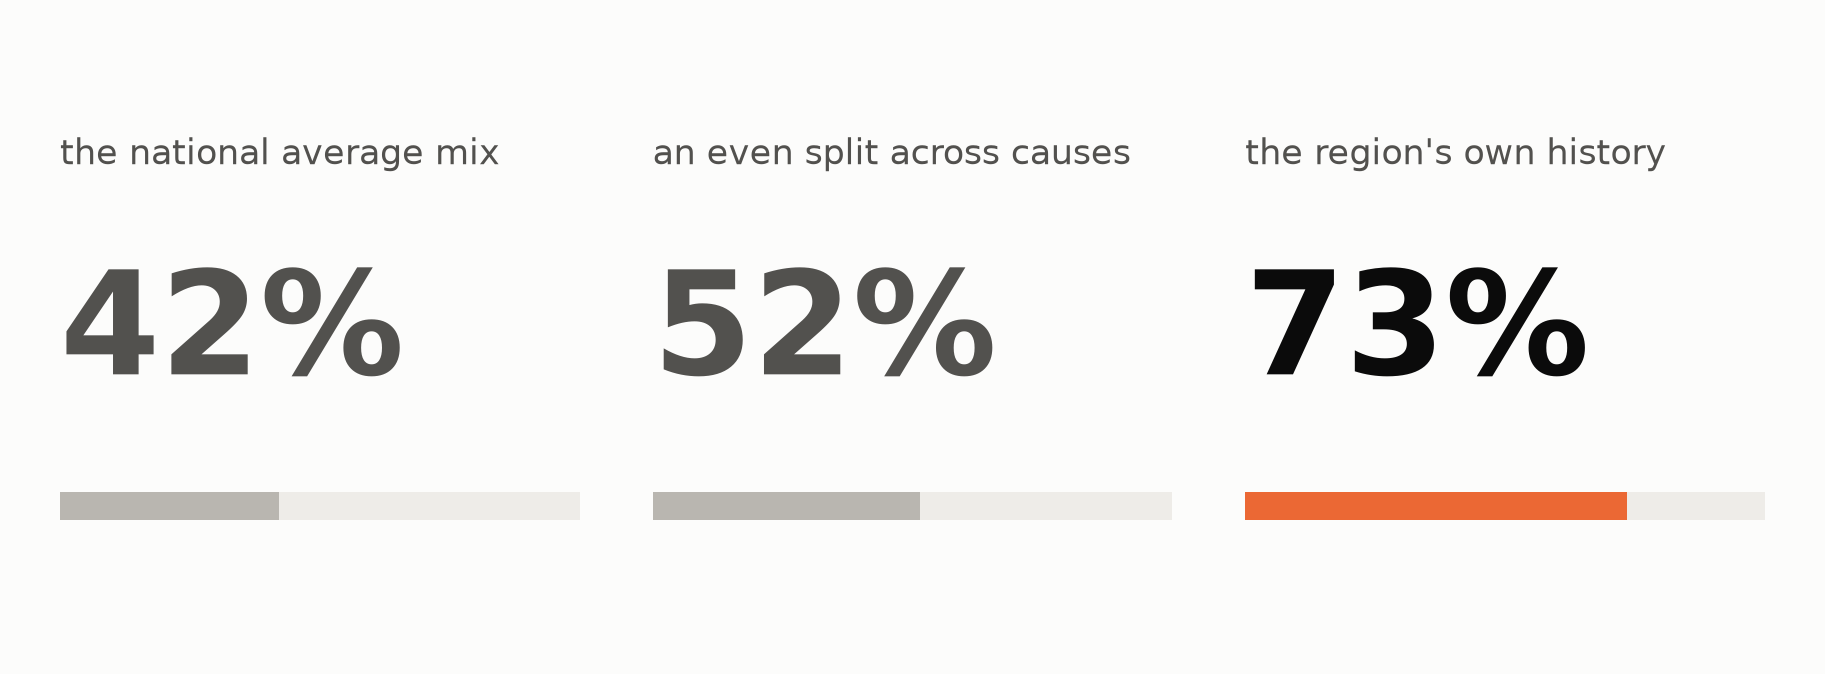
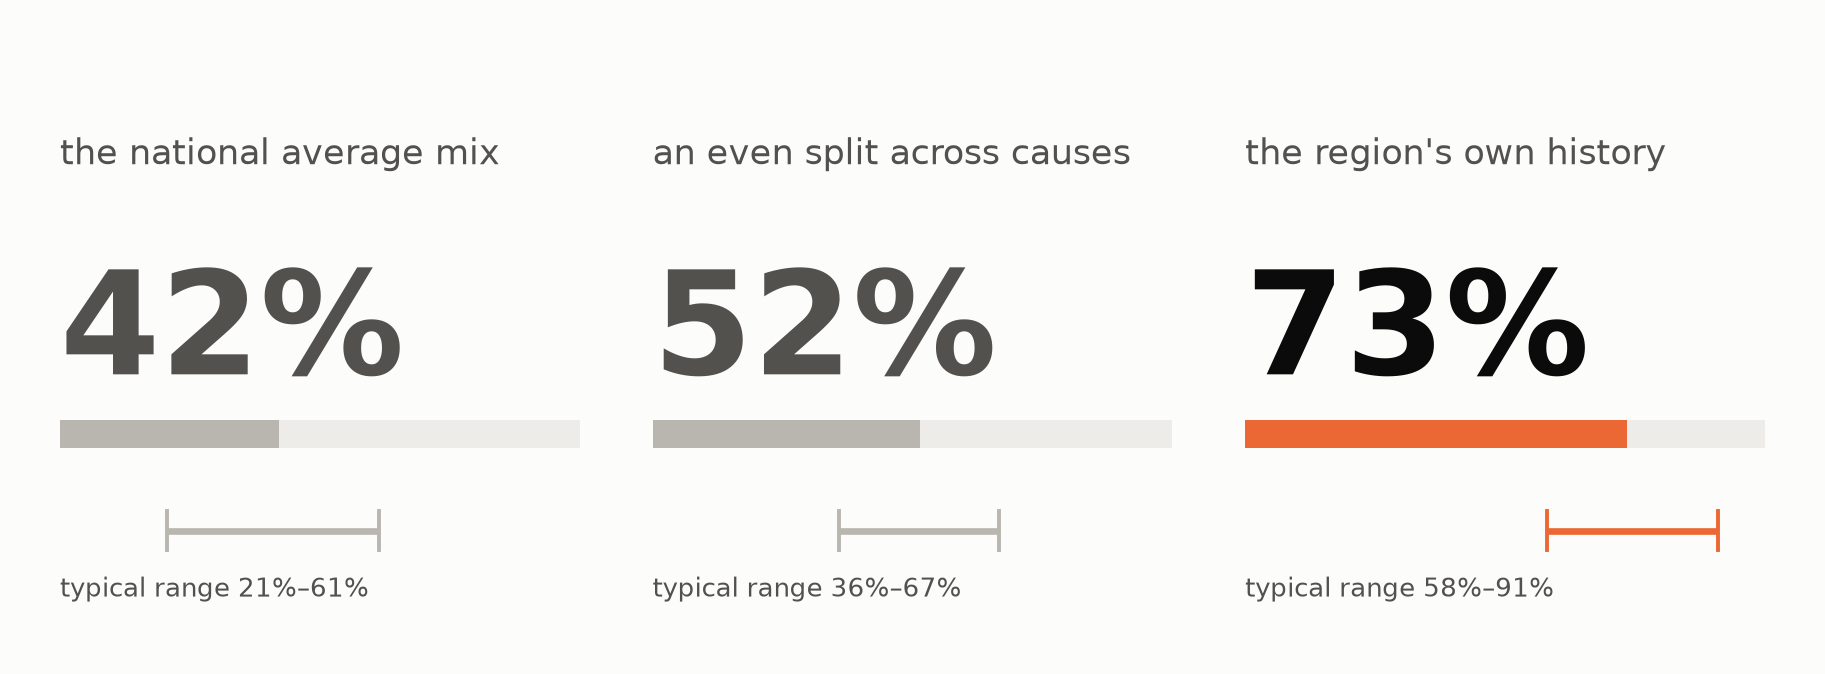
Show the spread on beat 3's tiles, and add a W7 visuals notebook
The tiles reported three bare means over 3,949 held-out region-seasons
while a planner receives exactly one of them. Each tile now carries the
middle half of its own per-cell distribution: history 58-91%, national
average 21-61%, even split 36-67%.

The spread is acre-weighted to match the headline. Unweighted percentiles
were tried first and put a 42% headline over a 50-79% range on the national
tile -- correct on both counts, unreadable as a pair, because that predictor
fails hardest on the big-burn cells the acre weighting is dominated by. Adds
_weighted_quantile for this.

The argument is sharper for the honesty: history and the national average
barely overlap, and the national tile's first quartile reaching 21% is beat
2's bimodality returning as forecast error.

notebook/16_w7_visuals.ipynb holds figures revised or added for W7 so
15_w6_visuals.ipynb stays a record of what week 6 presented. Code cells
dry-run clean; the notebook has not been executed.

Beat 3 to 0:55; deck totals 10:40.

diff --git a/src/w6_visuals.py b/src/w6_visuals.py
@@ -2106,7 +2106,8 @@ def plot_volatility_map(panel, out_path: Path, *, cfg=None,
 
 
 def _draw_score_tiles(labels, values, out_path: Path, *,
-                      figsize: tuple[float, float] = (11.0, 3.6)) -> None:
+                      figsize: tuple[float, float] = (11.0, 3.6),
+                      ranges=None) -> None:
     """Render one row of stat tiles. Shared by the Tier-1 and Human beats.
 
     One implementation, two slides: the beats are the same question one level
@@ -2119,6 +2120,15 @@ def _draw_score_tiles(labels, values, out_path: Path, *,
     comparison lives. The winner takes the ember accent; the rest sit in a
     recessive neutral, because the point is which one wins.
 
+    `ranges`, when given, is one `(low, high)` per tile in the same order as
+    `values`, drawn as a span beneath the bar with the headline mean marked on
+    it. **It is a spread across region-seasons, not a confidence interval** --
+    the tile's number is an average over thousands of cells and a planner
+    receives one of them, so the span answers "how much does this vary from
+    place to place", which is a different question from "how sure are we of the
+    average". The label drawn says "typical range" for that reason: no
+    inferential claim is being made.
+
     No title and no caption is drawn: the slide's headline supplies the framing,
     and the numbers a caption would need are returned by the caller.
     """
@@ -2127,6 +2137,8 @@ def _draw_score_tiles(labels, values, out_path: Path, *,
     order = np.argsort(np.asarray(values, dtype=float))
     labels = list(np.asarray(labels, dtype=object)[order])
     values = list(np.asarray(values, dtype=float)[order])
+    if ranges is not None:
+        ranges = [tuple(r) for r in np.asarray(ranges, dtype=float)[order]]
     best = len(values) - 1
 
     fig, axes = plt.subplots(1, len(values), figsize=figsize, facecolor=SURFACE,
@@ -2149,14 +2161,50 @@ def _draw_score_tiles(labels, values, out_path: Path, *,
                 ha="left", va="center", fontweight="bold")
 
         # A shared 0-100% track, so the bars are comparable across tiles.
-        ax.add_patch(plt.Rectangle((0, 0.17), 1.0, 0.05, facecolor="#eeece8",
+        bar_y = 0.17 if ranges is None else 0.30
+        ax.add_patch(plt.Rectangle((0, bar_y), 1.0, 0.05, facecolor="#eeece8",
                                    edgecolor="none"))
-        ax.add_patch(plt.Rectangle((0, 0.17), value, 0.05, facecolor=accent,
+        ax.add_patch(plt.Rectangle((0, bar_y), value, 0.05, facecolor=accent,
                                    edgecolor="none"))
+
+        if ranges is not None:
+            low, high = ranges[i]
+            span_y = 0.15
+            # The span sits on the SAME 0-100% track as the bar above it, so the
+            # eye reads width against the bar without a second scale to learn.
+            ax.plot([low, high], [span_y, span_y], color=accent, lw=2.4,
+                    solid_capstyle="butt", zorder=2)
+            for x in (low, high):
+                ax.plot([x, x], [span_y - 0.035, span_y + 0.035], color=accent,
+                        lw=1.4, zorder=3)
+            ax.text(0, 0.02, f"typical range {low:.0%}–{high:.0%}", fontsize=9.5,
+                    color=TEXT_SECONDARY, ha="left", va="bottom")
 
     fig.savefig(out_path, dpi=200, facecolor=SURFACE, bbox_inches="tight",
                 pad_inches=0.3)
     plt.close(fig)
+
+
+def _weighted_quantile(values, weights, q: float) -> float:
+    """Quantile of `values` under `weights`, by the cumulative-weight definition.
+
+    numpy has no weighted percentile. Sort by value, walk the cumulative weight,
+    and read off where it crosses `q` of the total -- with the cumulative taken
+    at interval midpoints so the result is symmetric between q and 1-q rather
+    than biased half a step toward the low end.
+
+    Exists so the tiles' spread carries the SAME acre weighting as the headline
+    mean above it. Mixing an acre-weighted mean with unweighted percentiles put a
+    42% headline over a 50-79% range on the national tile, which reads as a
+    mistake even though both numbers were correct.
+    """
+    values = np.asarray(values, dtype=float)
+    weights = np.asarray(weights, dtype=float)
+    order = np.argsort(values)
+    v, wt = values[order], weights[order]
+    cum = np.cumsum(wt) - 0.5 * wt
+    cum /= wt.sum()
+    return float(np.interp(q, cum, v))
 
 
 def tier1_baseline_scores(panel, *, k: int = 7, cfg=None) -> pd.DataFrame:
@@ -2189,14 +2237,36 @@ def tier1_baseline_scores(panel, *, k: int = 7, cfg=None) -> pd.DataFrame:
     national = national / national.sum(axis=1, keepdims=True)
     naive = np.full_like(act, 1 / 3)
 
+    def per_cell(pred):
+        """Per-cell TVD, kept rather than reduced -- the spread is the point."""
+        return 0.5 * np.abs(pred - act).sum(axis=1)
+
     def score(pred):
-        return float(np.average(0.5 * np.abs(pred - act).sum(axis=1), weights=w))
+        return float(np.average(per_cell(pred), weights=w))
 
     rows = [("the region's own history", "history", score(hist)),
             ("the national average mix", "national", score(national)),
             ("an even split across causes", "naive", score(naive))]
     out = pd.DataFrame(rows, columns=["label", "key", "tvd"]).set_index("key")
     out["correct"] = 1 - out["tvd"]
+
+    # Middle half of the per-cell distribution, on the same 1 - TVD scale as the
+    # headline. The tiles report a mean over thousands of held-out region-seasons
+    # and a planner receives exactly one of them, so the spread is what says how
+    # much a single number can be relied on.
+    #
+    # ACRE-WEIGHTED quantiles, matching the headline's weighting. Unweighted ones
+    # were tried first and produced a figure that reads as an error: the national
+    # tile came out at a 42% headline against a 50-79% range, because that
+    # predictor fails hardest on the big-burn cells the acre weighting is
+    # dominated by and does adequately on the many small ones. Both numbers were
+    # right and the pair was unreadable. One denominator throughout is the same
+    # discipline the spoken script applies to every share it quotes.
+    for key, pred in (("history", hist), ("national", national), ("naive", naive)):
+        acc = 1 - per_cell(pred)
+        for q in (25, 50, 75):
+            out.loc[key, f"p{q}"] = _weighted_quantile(acc, w, q / 100)
+
     out.attrs["n_cells"] = int(len(d))
     out.attrs["test_start"] = int(cfg.test_start)
     return out
@@ -2206,9 +2276,17 @@ def plot_tier1_tiles(panel, out_path: Path, *, k: int = 7, cfg=None,
                      figsize: tuple[float, float] = (11.0, 3.6)) -> dict:
     """Beat 3 — three tiles: does a region's own history forecast its cause mix?
 
-    Not a chart. Three numbers, compared once, with no distribution to show and
-    no time axis -- the form is a stat tile, and forcing it into a bar chart adds
-    an axis the reader does not need.
+    Not a chart. Three numbers compared once, with no time axis -- the form is a
+    stat tile, and forcing it into a bar chart adds an axis the reader does not
+    need.
+
+    **Each tile carries the middle half of its own per-cell distribution**
+    (p25-p75 of `1 - TVD`), added W7. The headline is an acre-weighted mean over
+    thousands of held-out region-seasons and a planner receives exactly one of
+    them, so a bare mean overstates what a single forecast is worth. The span is
+    variation across region-seasons, **not** a confidence interval on the mean --
+    the drawn label says "typical range" to keep that distinction in the figure
+    rather than only in the notes.
 
     **The value shown is `1 - TVD`, not TVD.** TVD is a distance, so lower is
     better, and a tile whose biggest number is the worst result reads backwards
@@ -2226,7 +2304,8 @@ def plot_tier1_tiles(panel, out_path: Path, *, k: int = 7, cfg=None,
     """
     scores = tier1_baseline_scores(panel, k=k, cfg=cfg)
     _draw_score_tiles(scores["label"], scores["correct"], out_path,
-                      figsize=figsize)
+                      figsize=figsize,
+                      ranges=scores[["p25", "p75"]].to_numpy())
 
     return {
         "n_cells": scores.attrs["n_cells"],
@@ -2234,6 +2313,8 @@ def plot_tier1_tiles(panel, out_path: Path, *, k: int = 7, cfg=None,
         "k": k,
         **{f"{key}_correct": float(r["correct"]) for key, r in scores.iterrows()},
         **{f"{key}_tvd": float(r["tvd"]) for key, r in scores.iterrows()},
+        **{f"{key}_p{q}": float(r[f"p{q}"])
+           for key, r in scores.iterrows() for q in (25, 50, 75)},
         "best": str(scores["correct"].idxmax()),
         "out_path": str(out_path),
     }

diff --git a/coursework/W7/final_script.md b/coursework/W7/final_script.md
@@ -120,7 +120,9 @@ Each slide below carries four blocks:
 
 > The mix is three classes splitting a region-season's burned acres — **natural**, **human**, and **unknown**, the ones whose cause was never determined. By acres, nationally: fifty-nine, twenty-three, eighteen. **Everything in this deck is weighted by acres, not by number of fires** — by fire count those first two numbers almost exactly swap.
 >
-> Three ways to predict that mix, worst to best. Assume every region looks like the national average — forty-two percent of the acres land on the right cause. Assume an even split: fifty-two. Use nothing but that region's own recent history: seventy-three.
+> Three ways to predict that mix, worst to best. The national average mix — forty-two percent of the acres land on the right cause. An even split: fifty-two. That region's own recent history: seventy-three.
+>
+> Those are averages, and the range under each is the honest part: history runs sixty to ninety across region-seasons, the national average down to twenty. **And we can tell in advance which end a region-season lands on** — a place whose history has been settled forecasts well; one that's been swinging doesn't.
 >
 > The national average does worse than assuming you know nothing — that's the last slide's map showing up as forecast error.
 
@@ -135,13 +137,17 @@ Each slide below carries four blocks:
 - Do NOT say "right 73% of the time." 73% is an error magnitude (1 - TVD), not a hit rate — there is no "of the time" to attach it to.
 - 72.7% top-1 agreement is a different number that DOES mean "of the time." Only use that phrasing if the slide on screen shows top-1.
 - **Confirmed: these tiles plot 1 − TVD, an error magnitude. Beats 5 and 6 use the same three-tile visual but plot top-1 hit rates.** Same look, different quantity — so "of the time" is wrong here and right there. If asked to compare the 73% with beat 5's 54%, say they are not on the same scale.
+- **The span under each tile is a spread across region-seasons, NOT a confidence interval.** Say "typical range" or "where individual region-seasons land," never "plus or minus" or "we're 50% confident." Acre-weighted p25–p75, matching the headline's weighting: history **58–91%**, national **21–61%**, even split **36–67%**.
+- **The national tile's low end is the argument.** Its 42% is not a middling result evenly spread — the first quartile reaches down to 21%. That is beat 2's bimodality returning as forecast error: a national average describes almost no individual region.
+- **If asked "so which ones land at the bottom?"** — that is answered, and it is the strongest unpublished result in the project. A cell's own **pre-season** history dispersion predicts its error: Spearman **+0.484** here and **+0.577** on the human branch, **33 and 35 SD** above a shuffled control, holding *within* individual regions (74/93 and 80/92 series positive). By quartile of pre-season dispersion, accuracy runs **83% → 62%** on Tier 1 and **73% → 39%** on Human. `06_analysis.ipynb`, final section.
+- **State its limit in the same breath: it ranks confidence, it does not calibrate it.** "This cell is in the steadiest quartile, which historically scored 83%" — never "83% likely to be right." And 36 of 986 steadiest-quartile cells still scored below 25%, several at dispersion exactly 0.000: a settled history can precede a regime break.
 - **Unknown is a predicted class, not a discard.** It holds the missing-cause acre mass, and its share is a regional attribution-quality signal — which is what makes beat 18 a product rather than an apology. Do not describe the model as predicting "two causes plus leftovers."
 - **The comparison carries the weight, not any one tile:** the national mix (42%, left) is worse than the even split (52%, middle) — using the national average is worse than assuming you know nothing, which is beat 2 reappearing as forecast error. Do not say "the middle tile" for this point; the middle tile is the even split, and the claim is about the left one losing to it.
 - The 18.5% here and the "nearly a fifth" on the title slide are the same number — the acres denominator. Keep them consistent.
 - **The single most confusable pair of numbers in the deck.** Tier-1 shares by acres are Human 22.7 / Natural 58.8 / Unknown 18.5; **by fire count they are Human 60.7 / Natural 14.4 / Unknown 24.9** — Human and Natural almost exactly swap. Both are true. Verified from `fires_clean.parquet`. Every target and every score in this project is **acres** (`panel.tier1_composition()` divides `human_ac`/`natural_ac`/`unknown_ac` by `total_ac`; fire counts appear only under `with_counts=True`, and only as model *features*, never as a target). Name the denominator whenever these numbers are said aloud.
 - If challenged "isn't most fire human-caused?" — yes, by count, 61%. Humans start most fires; lightning burns most acres. The deck is about acres because acres are what a mitigation budget is sized against.
 
-**TIME —** 0:45
+**TIME —** 0:55
 
 ---
 

diff --git a/coursework/collaboration_log.md b/coursework/collaboration_log.md
@@ -1394,3 +1394,13 @@ Week 4 opens the modeling design against the cleaned analysis grain (`data/regio
 - **What changed:** beat 3 now says "**by acres**, nationally: fifty-nine, twenty-three, eighteen" and adds "everything in this deck is weighted by acres, not by number of fires — by fire count those first two numbers almost exactly swap." Beat 5 says "names the top cause **by acres**." Three WATCH lines record the exact figures both ways, a prepared answer to "isn't most fire human-caused?" (yes — 61% by count; humans start most fires, lightning burns most acres, and the deck is about acres because acres are what a mitigation budget is sized against), and the fact that the two tiers use **different denominators** by design — Tier 1 includes the Unknown mass, Human excludes it and conditions on human acres.
 - **Then the agent swept every other SAY block** for shares quoted without a named denominator and found none — the remaining ones all say "acres," "starts," or "fires" explicitly.
 - **What this changed:** beats 3 and 5 SAY and WATCH in `final_script.md`; both slides to 0:45 rather than trimming the qualifier back out. Deck budgets 10:30.
+
+### Entry 7.12
+- **Date:** 2026-08-15
+- **What was going on:** Having found the per-cell confidence signal, I asked whether beat 3 should change. I did not want it held back for Q&A — **I want to be transparent about what we know**, so I asked to redo the figure to show the range.
+- **The design choice I made:** keep the three tiles and the worst-to-best comparison, adding a spread indicator to each, rather than replacing them with a confidence-quartile chart. The comparison is what beat 2 sets up and beat 5 repeats one level down; swapping the encoding would have broken that rhyme and dropped the "history beats the national average" point entirely.
+- **The build immediately exposed a defect I would not have caught by reading numbers.** The first render put the national tile's **42% headline over a 50–79% range** — the range did not contain its own headline. Cause: the headline is **acre-weighted** and the percentiles were **unweighted**. The national average mix fails hardest on the big-burn cells that dominate the acre weighting and does adequately on the many small ones, so both numbers were right and the pair read as an error. Fixed with a weighted-quantile helper so the span carries the same weighting as the mean — **one denominator throughout**, the same rule I imposed on the spoken shares in Entry 7.11.
+- **The figure is better than the bare means, and the argument survived:** history spans **58–91%** against the national average's **21–61%**, barely overlapping. The national tile's first quartile reaching down to **21%** is the sharper version of beat 2's bimodality returning as forecast error.
+- **Where the figures live.** I asked for a notebook rather than an ad-hoc render. New `notebook/16_w7_visuals.ipynb` holds only figures **revised or added for W7**, so `15_w6_visuals.ipynb` stays a record of what was presented in week 6 instead of being edited underneath. Same convention as 15: markdown context → `wv.*` call → **Finding**. The agent dry-ran the code cells before handing it over; **I have not run it yet.**
+- **The wording constraint I care about most:** the span is a **spread across region-seasons, not a confidence interval on the mean.** The figure's own drawn label says "typical range" so the distinction lives in the artifact rather than only in my notes, and a WATCH line forbids "plus or minus" and "we're X% confident."
+- **What this changed:** `src/w6_visuals.py` (`_weighted_quantile`, per-cell quantiles in `tier1_baseline_scores`, optional `ranges` in `_draw_score_tiles`); `img/w6_tier1_tiles.png` regenerated; `notebook/16_w7_visuals.ipynb` created; beat 3 SAY plus five WATCH lines. Beat 3 is now **0:55** and the deck budgets **10:40** — it is the heaviest slide in the deck and I am carrying that deliberately until a measured run.
